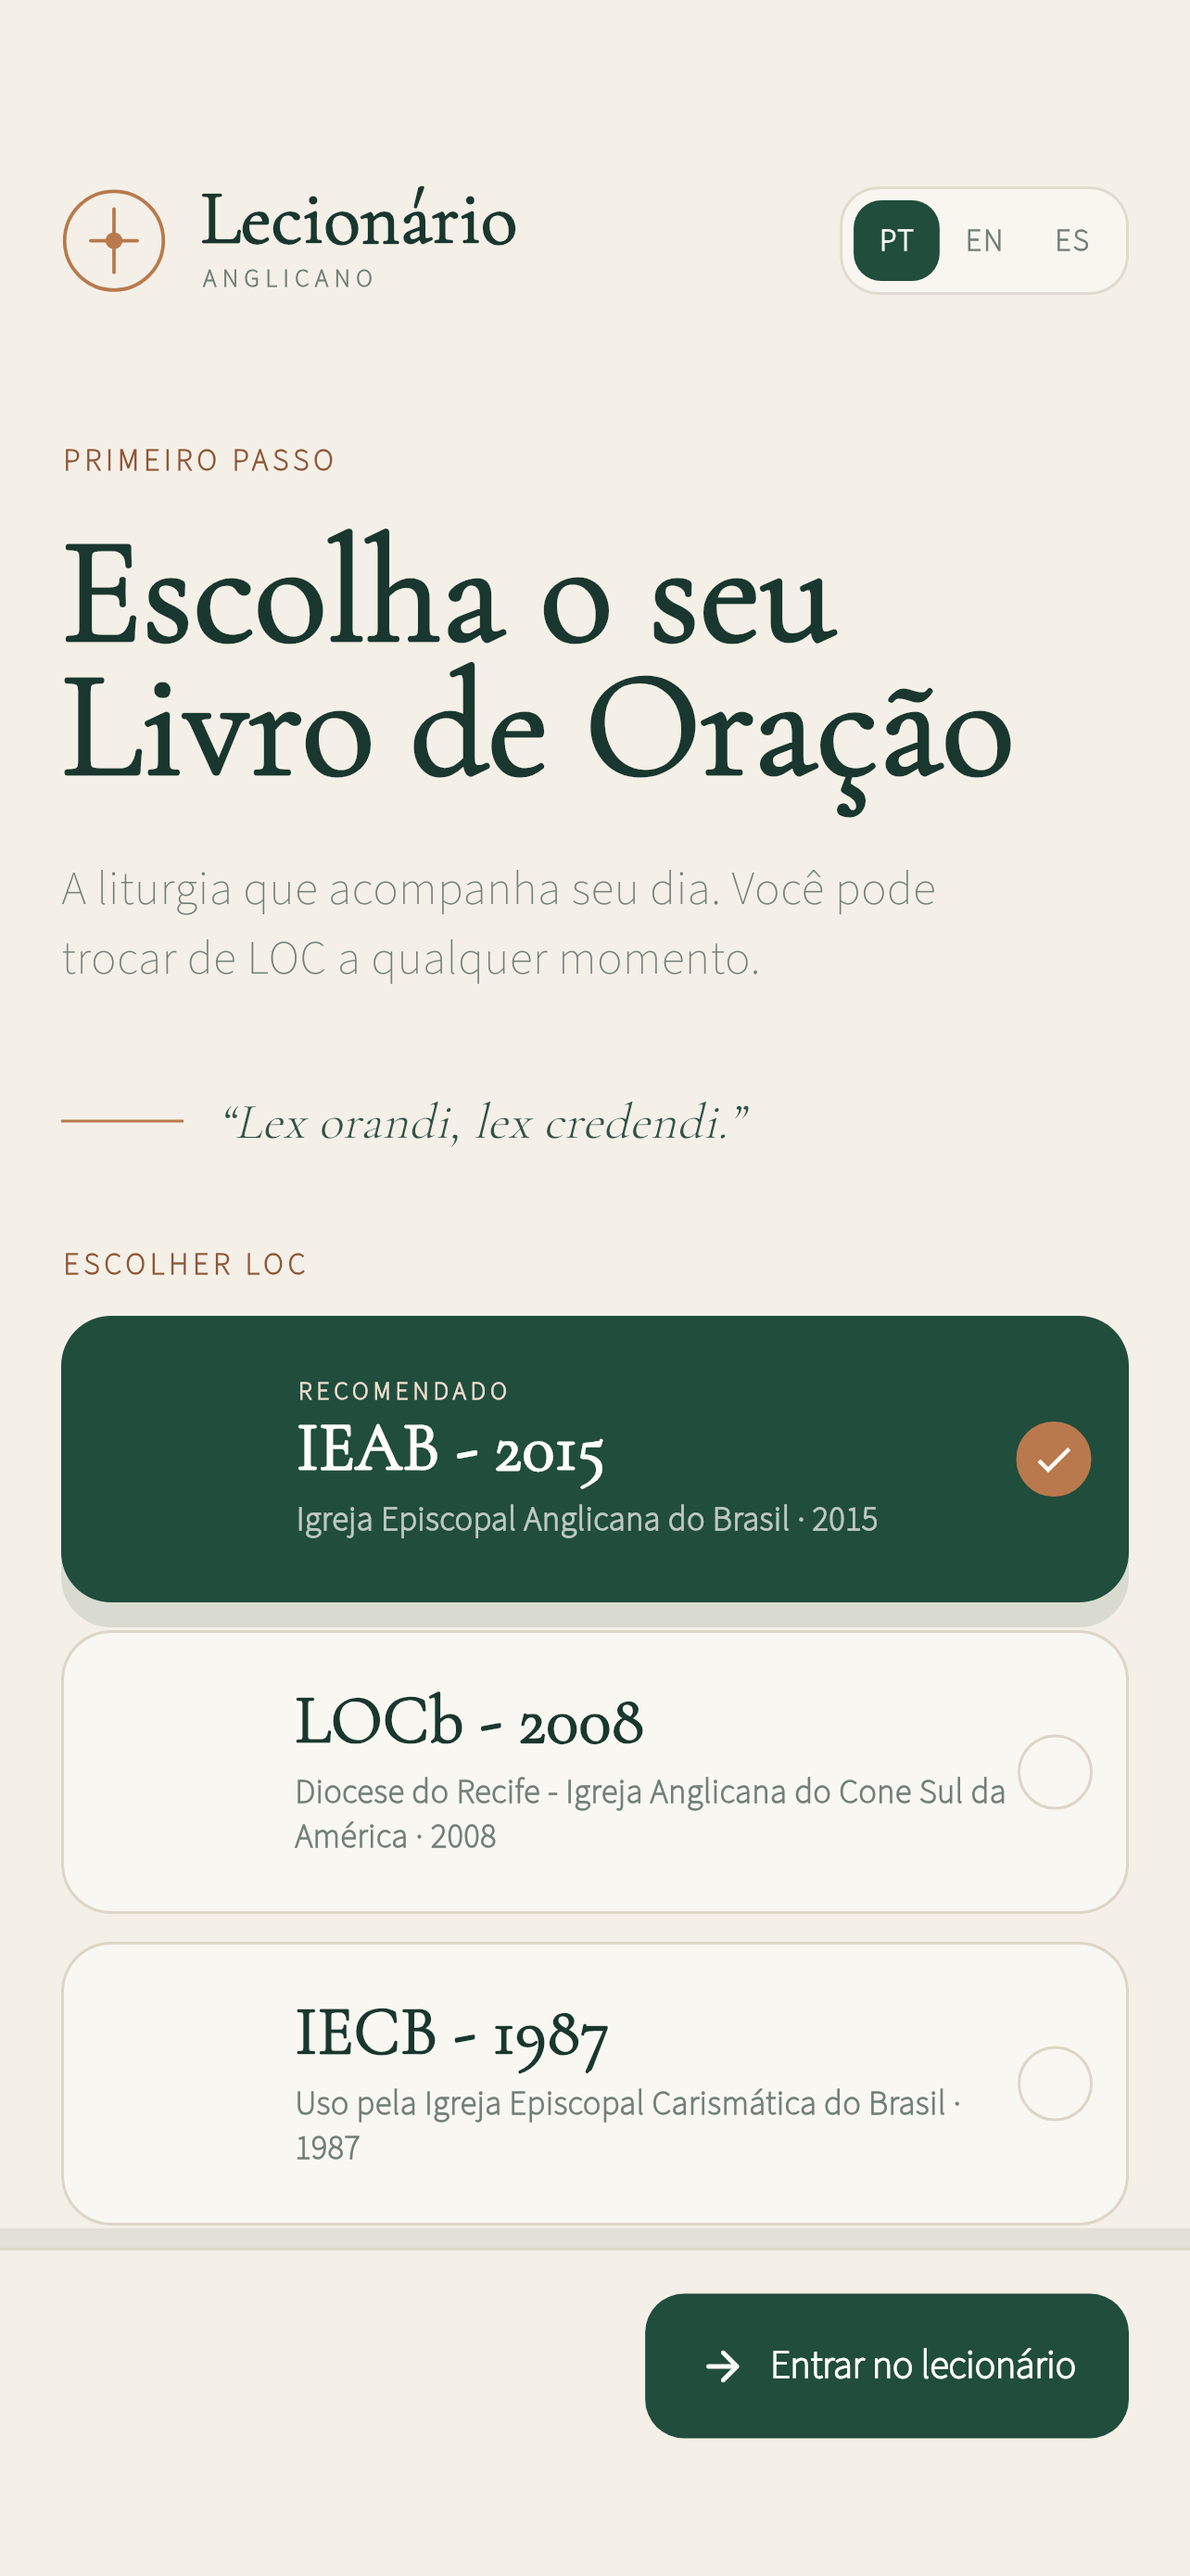
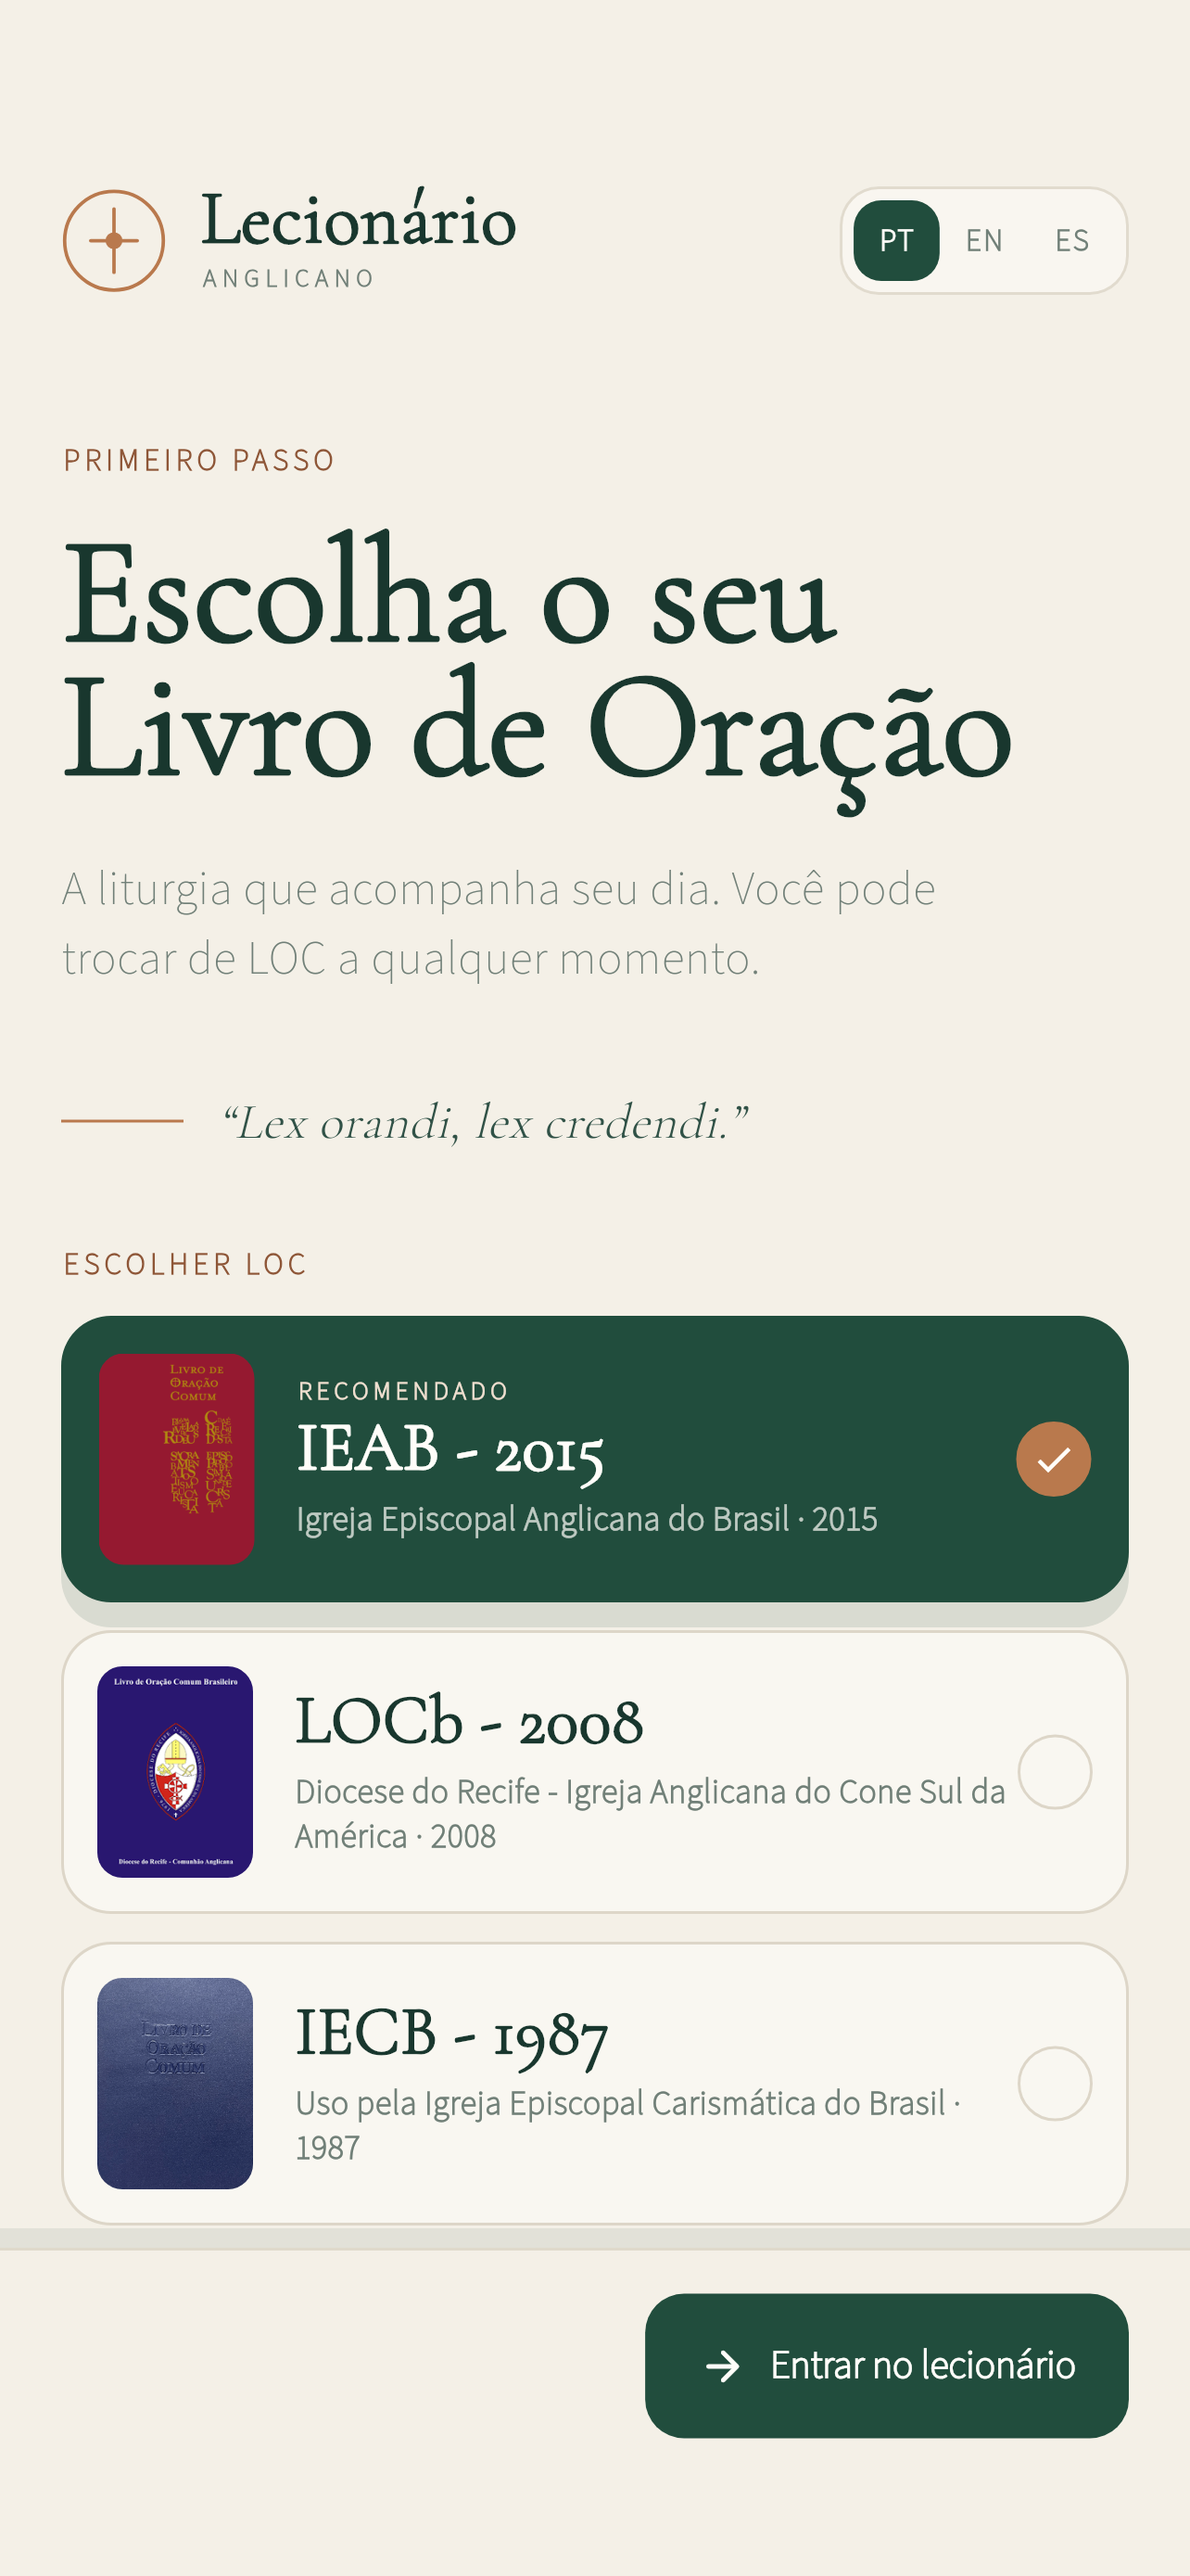
fix: wait for the covers before taking the picture
Image.network resolves off the frame loop, so pumpAndSettle returns happy
with a tree whose pictures have not arrived. The golden then caught whatever
had decoded by that instant — differently on each run. The Portuguese
6.5" prayer book list came out with no covers at all, English with one of
three, and the same screens at other sizes were fine, which is what a race
looks like.

The capture now precaches every image in the tree before the golden, inside
runAsync so the decode can actually finish, and throws if one fails rather
than quietly shipping a screenshot with a hole in it.

Only the two screenshots that were wrong changed.

Claude-Session: https://claude.ai/code/session_018Eds64zHUUhfzdjngxUsJB

Changed region(s): [[0.0623, 0.5263, 0.2181, 0.8668]]

diff --git a/test/store_capture_test.dart b/test/store_capture_test.dart
@@ -71,6 +71,7 @@ void main() {
         var shot = 0;
         Future<void> capture(String name) async {
           await tester.pumpAndSettle();
+          await _settleImages(tester);
           await expectLater(
             find.byType(MaterialApp),
             matchesGoldenFile(
@@ -276,6 +277,28 @@ class _FontManifest implements AssetManifest {
 
   @override
   List<AssetMetadata> getAssetVariants(String key) => const [];
+}
+
+/// Image.network resolves off the frame loop, so pumpAndSettle returns
+/// perfectly happy with a tree whose pictures have not arrived — and the
+/// golden catches the covers missing, differently on each run. Waiting for
+/// each one, and refusing any that failed, is what makes the capture
+/// repeatable.
+Future<void> _settleImages(WidgetTester tester) async {
+  final failures = <Object>[];
+  await tester.runAsync(() async {
+    for (final element in find.byType(Image).evaluate()) {
+      await precacheImage(
+        (element.widget as Image).image,
+        element,
+        onError: (error, _) => failures.add(error),
+      );
+    }
+  });
+  if (failures.isNotEmpty) {
+    throw StateError('an image never loaded: ${failures.first}');
+  }
+  await tester.pumpAndSettle();
 }
 
 Map<String, Uint8List> _covers(Directory fixtures) {
